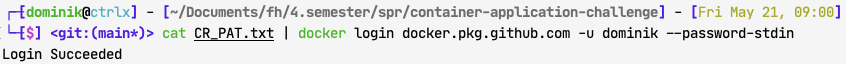
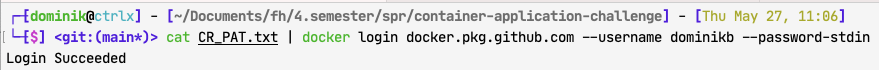
Apply changes from review feedback

Changed region(s): [[0.0, 0.0312, 1.0, 0.3438], [0.0, 0.375, 1.0, 0.6562], [0.0, 0.75, 0.1537, 0.9688]]

diff --git a/docs/Working-With-The-Image-Registry.md b/docs/Working-With-The-Image-Registry.md
@@ -14,7 +14,12 @@ To use the Github Image Registry with Docker you first must authenticate yoursel
 
 ````
 echo "<yourtoken>" > CR_PAT.txt
-cat CR_PAT.txt | docker login docker.pkg.github.com -u USERNAME --password-stdin
+
+# Linux and Mac
+cat CR_PAT.txt | docker login docker.pkg.github.com --username USERNAME --password-stdin
+
+# Windows
+get-content CR_PAT.txt | docker login docker.pkg.github.com --username USERNAME --password-stdin
 ````
 
 It should give you a success response.
@@ -31,8 +36,7 @@ If not, check that the file contains the correct token or create a new one if yo
 
 Run the latest published version from the image registry.
 ````
-docker run -e POSTGRES_PASSWORD=password \
-  docker.pkg.github.com/aeisl/container-application-challenge/database:latest
+docker run -e POSTGRES_PASSWORD=password docker.pkg.github.com/aeisl/container-application-challenge/database:latest
 ````
 
 Build and publish a new latest version of our database image

diff --git a/README.md b/README.md
@@ -73,6 +73,7 @@ and then apply their configurations to the kubernetes cluster
 ```bash
 kubectl apply -f github-registry-secret.yml # Allows for pulling private Docker images
 kubectl apply -f database.yaml
+kubectl apply -f api.yaml
 kubectl apply -f app/target/kubernetes/kubernetes.yml
 ```
 
